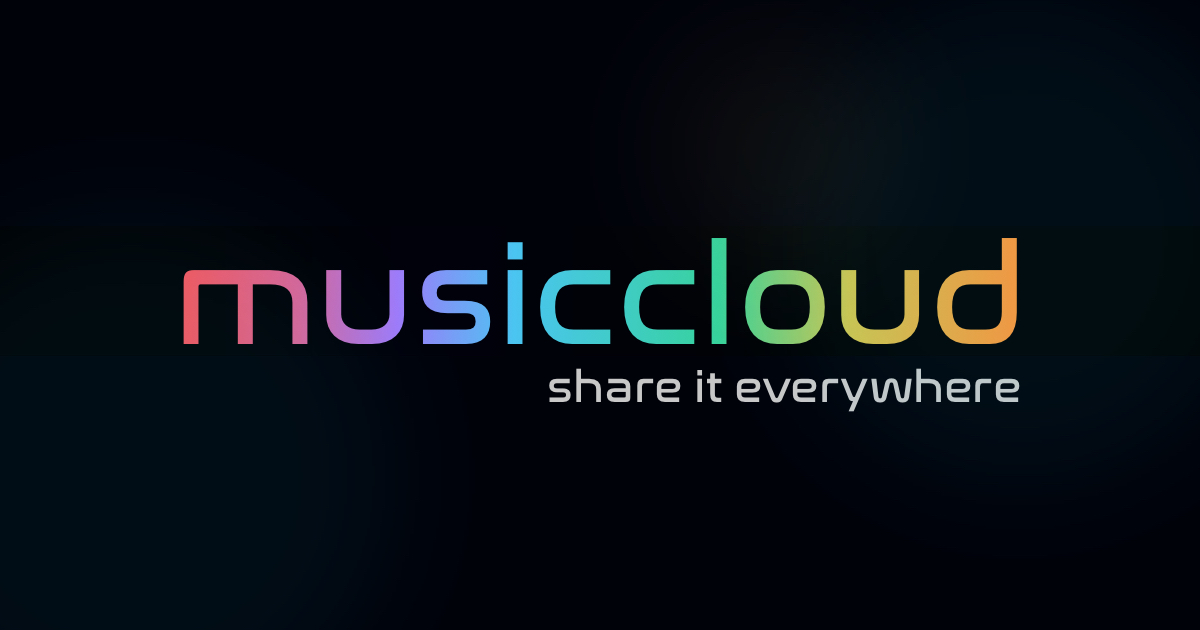
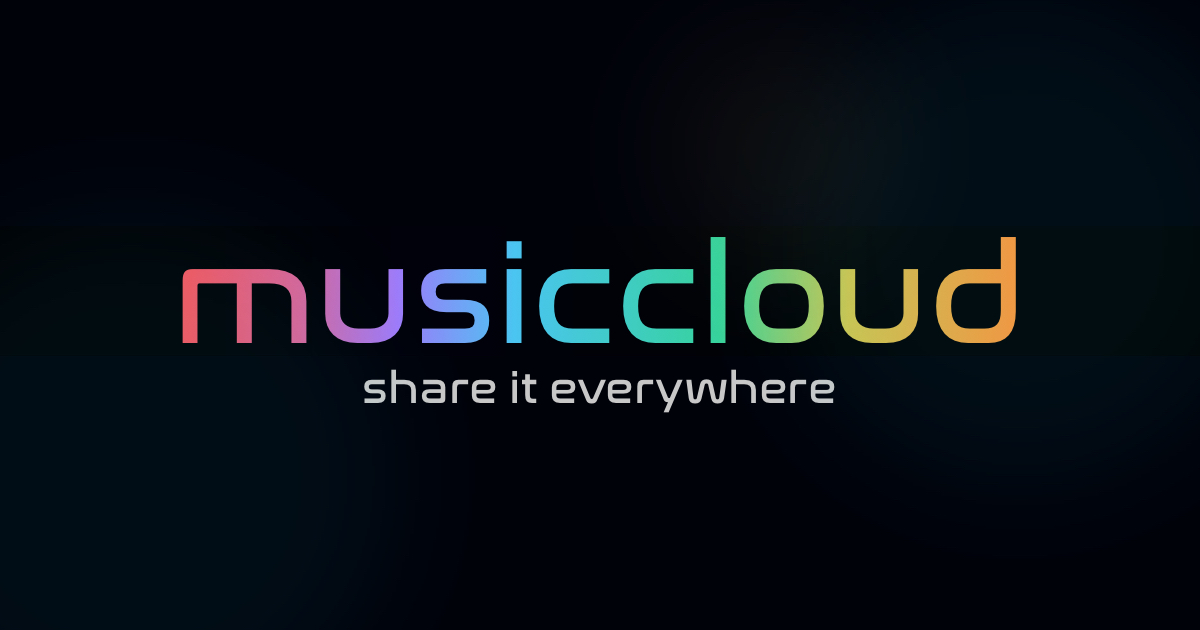
Chore: Markdown formatting fixes + updated OG image
- Fix address formatting in dsgvo.md and imprint.md (line breaks)
- Update musiccloud.jpg OG image

diff --git a/public/content/dsgvo.md b/public/content/dsgvo.md
@@ -1,7 +1,9 @@
 # Datenschutzerklärung
 
-**Verantwortlicher**
-Frank Gregor, Landstrasse 21c, 6900 Bregenz
+**Verantwortlicher:**  
+Frank Gregor  
+Landstrasse 21c  
+6900 Bregenz  
 E-Mail: [phranck@phranck.dev](mailto:phranck@phranck.dev)
 
 ---

diff --git a/public/content/imprint.md b/public/content/imprint.md
@@ -1,6 +1,6 @@
 # Impressum
 
-**Frank Gregor**
+**Frank Gregor**  
 Landstrasse 21c  
 6900 Bregenz  
 **Österreich**
